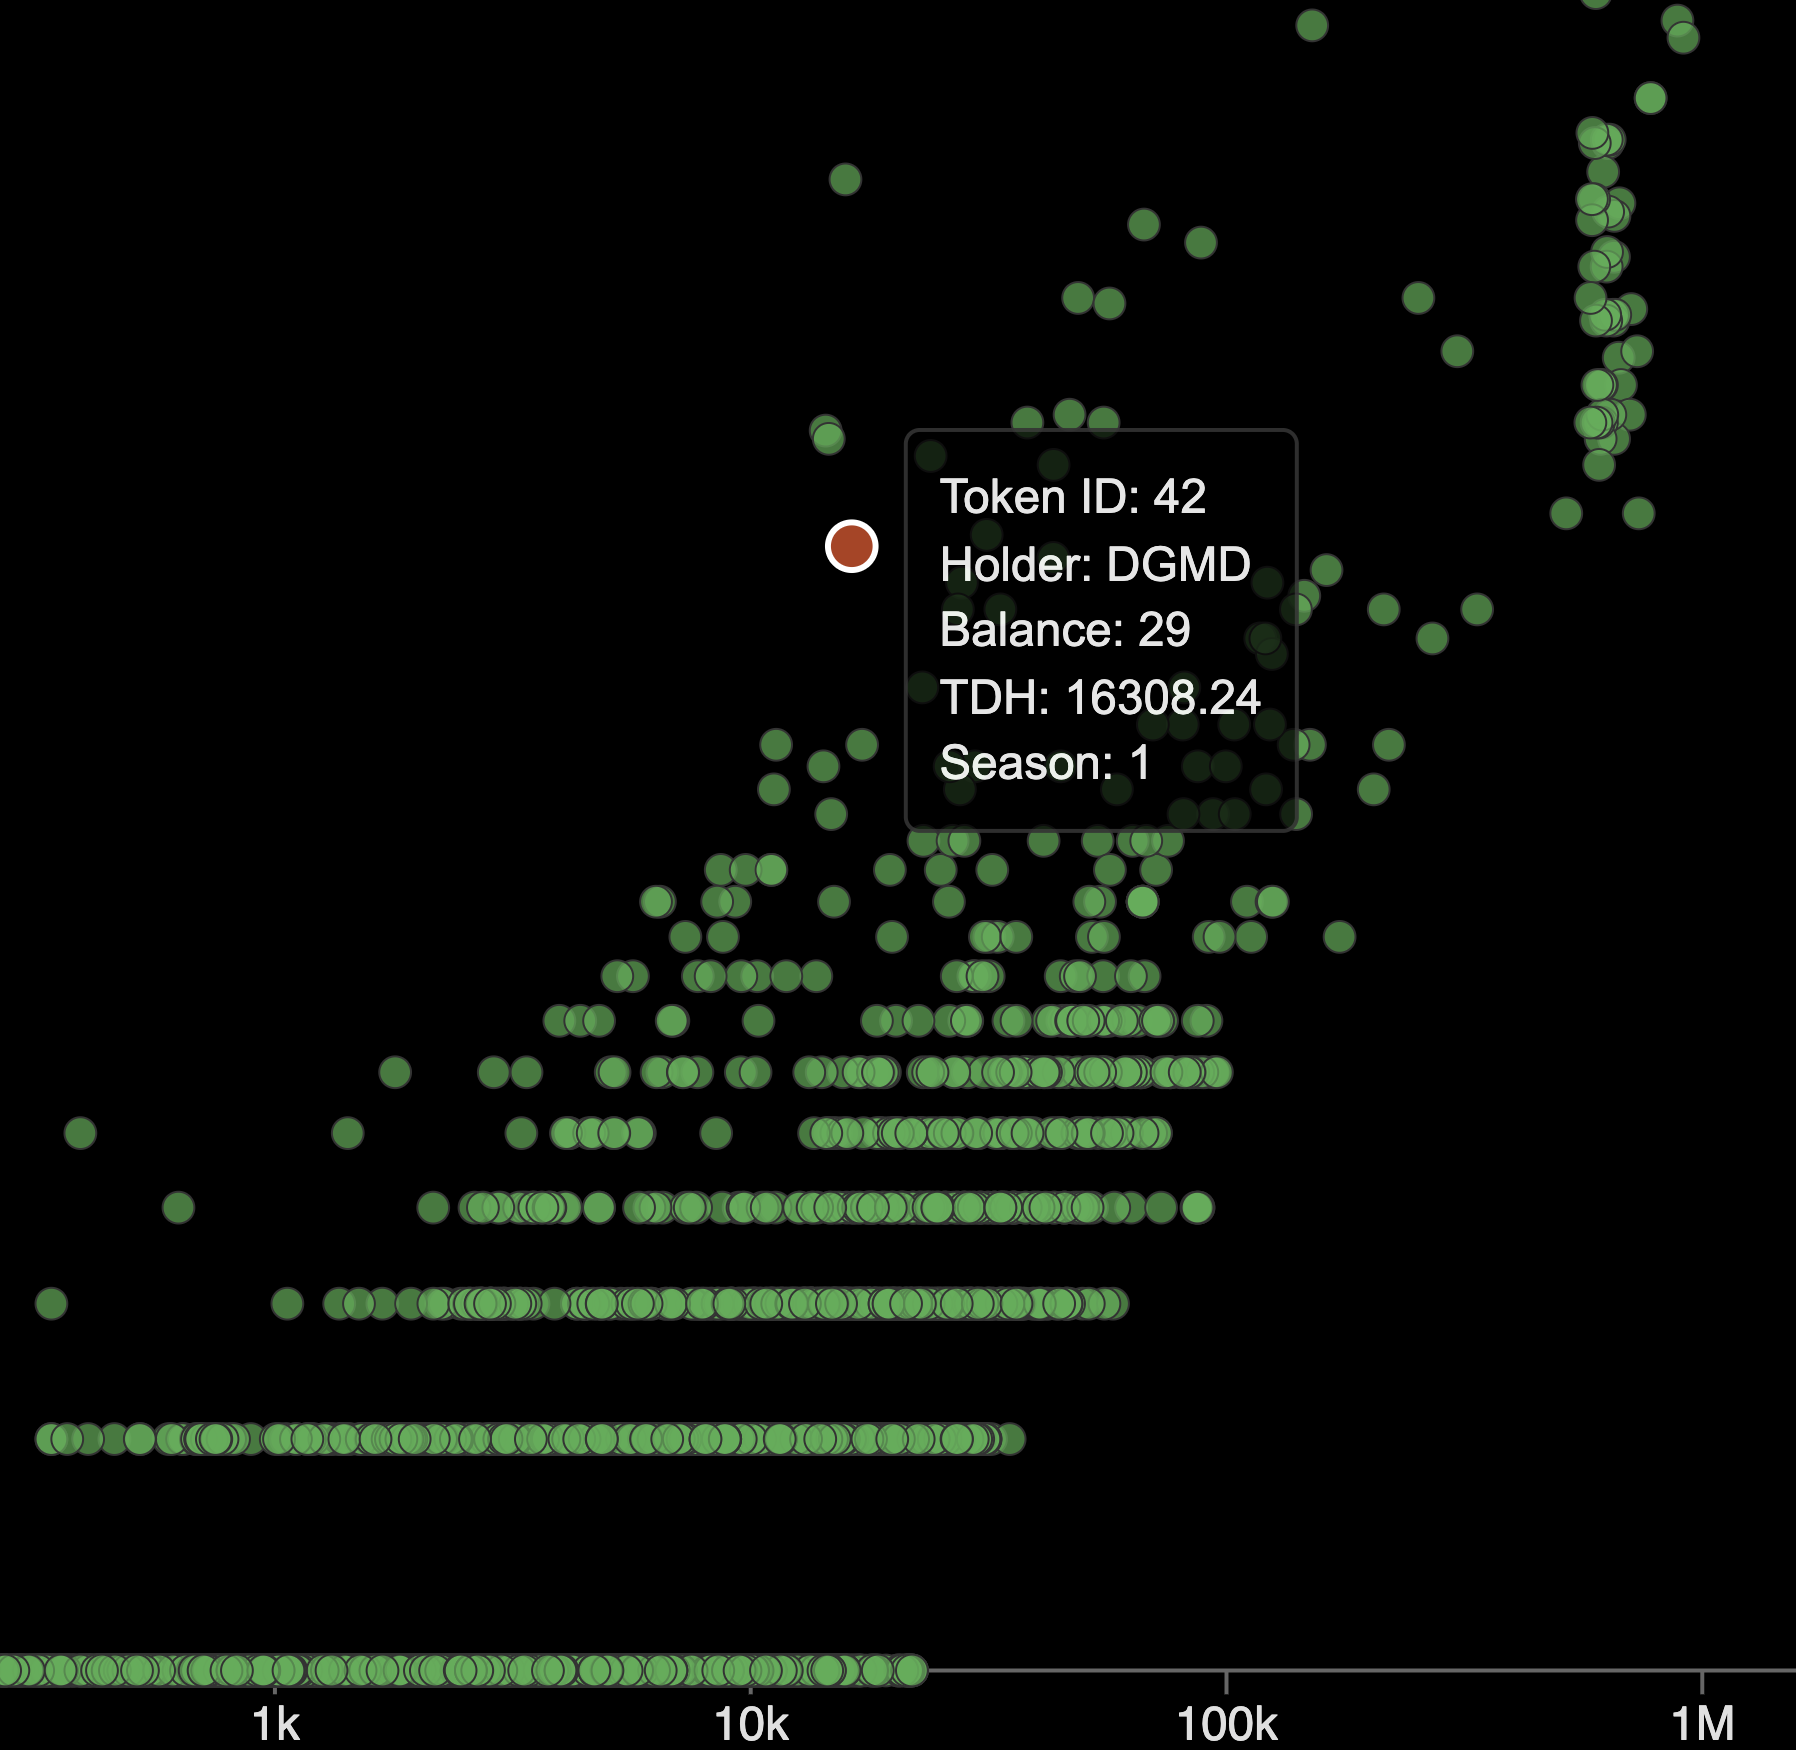
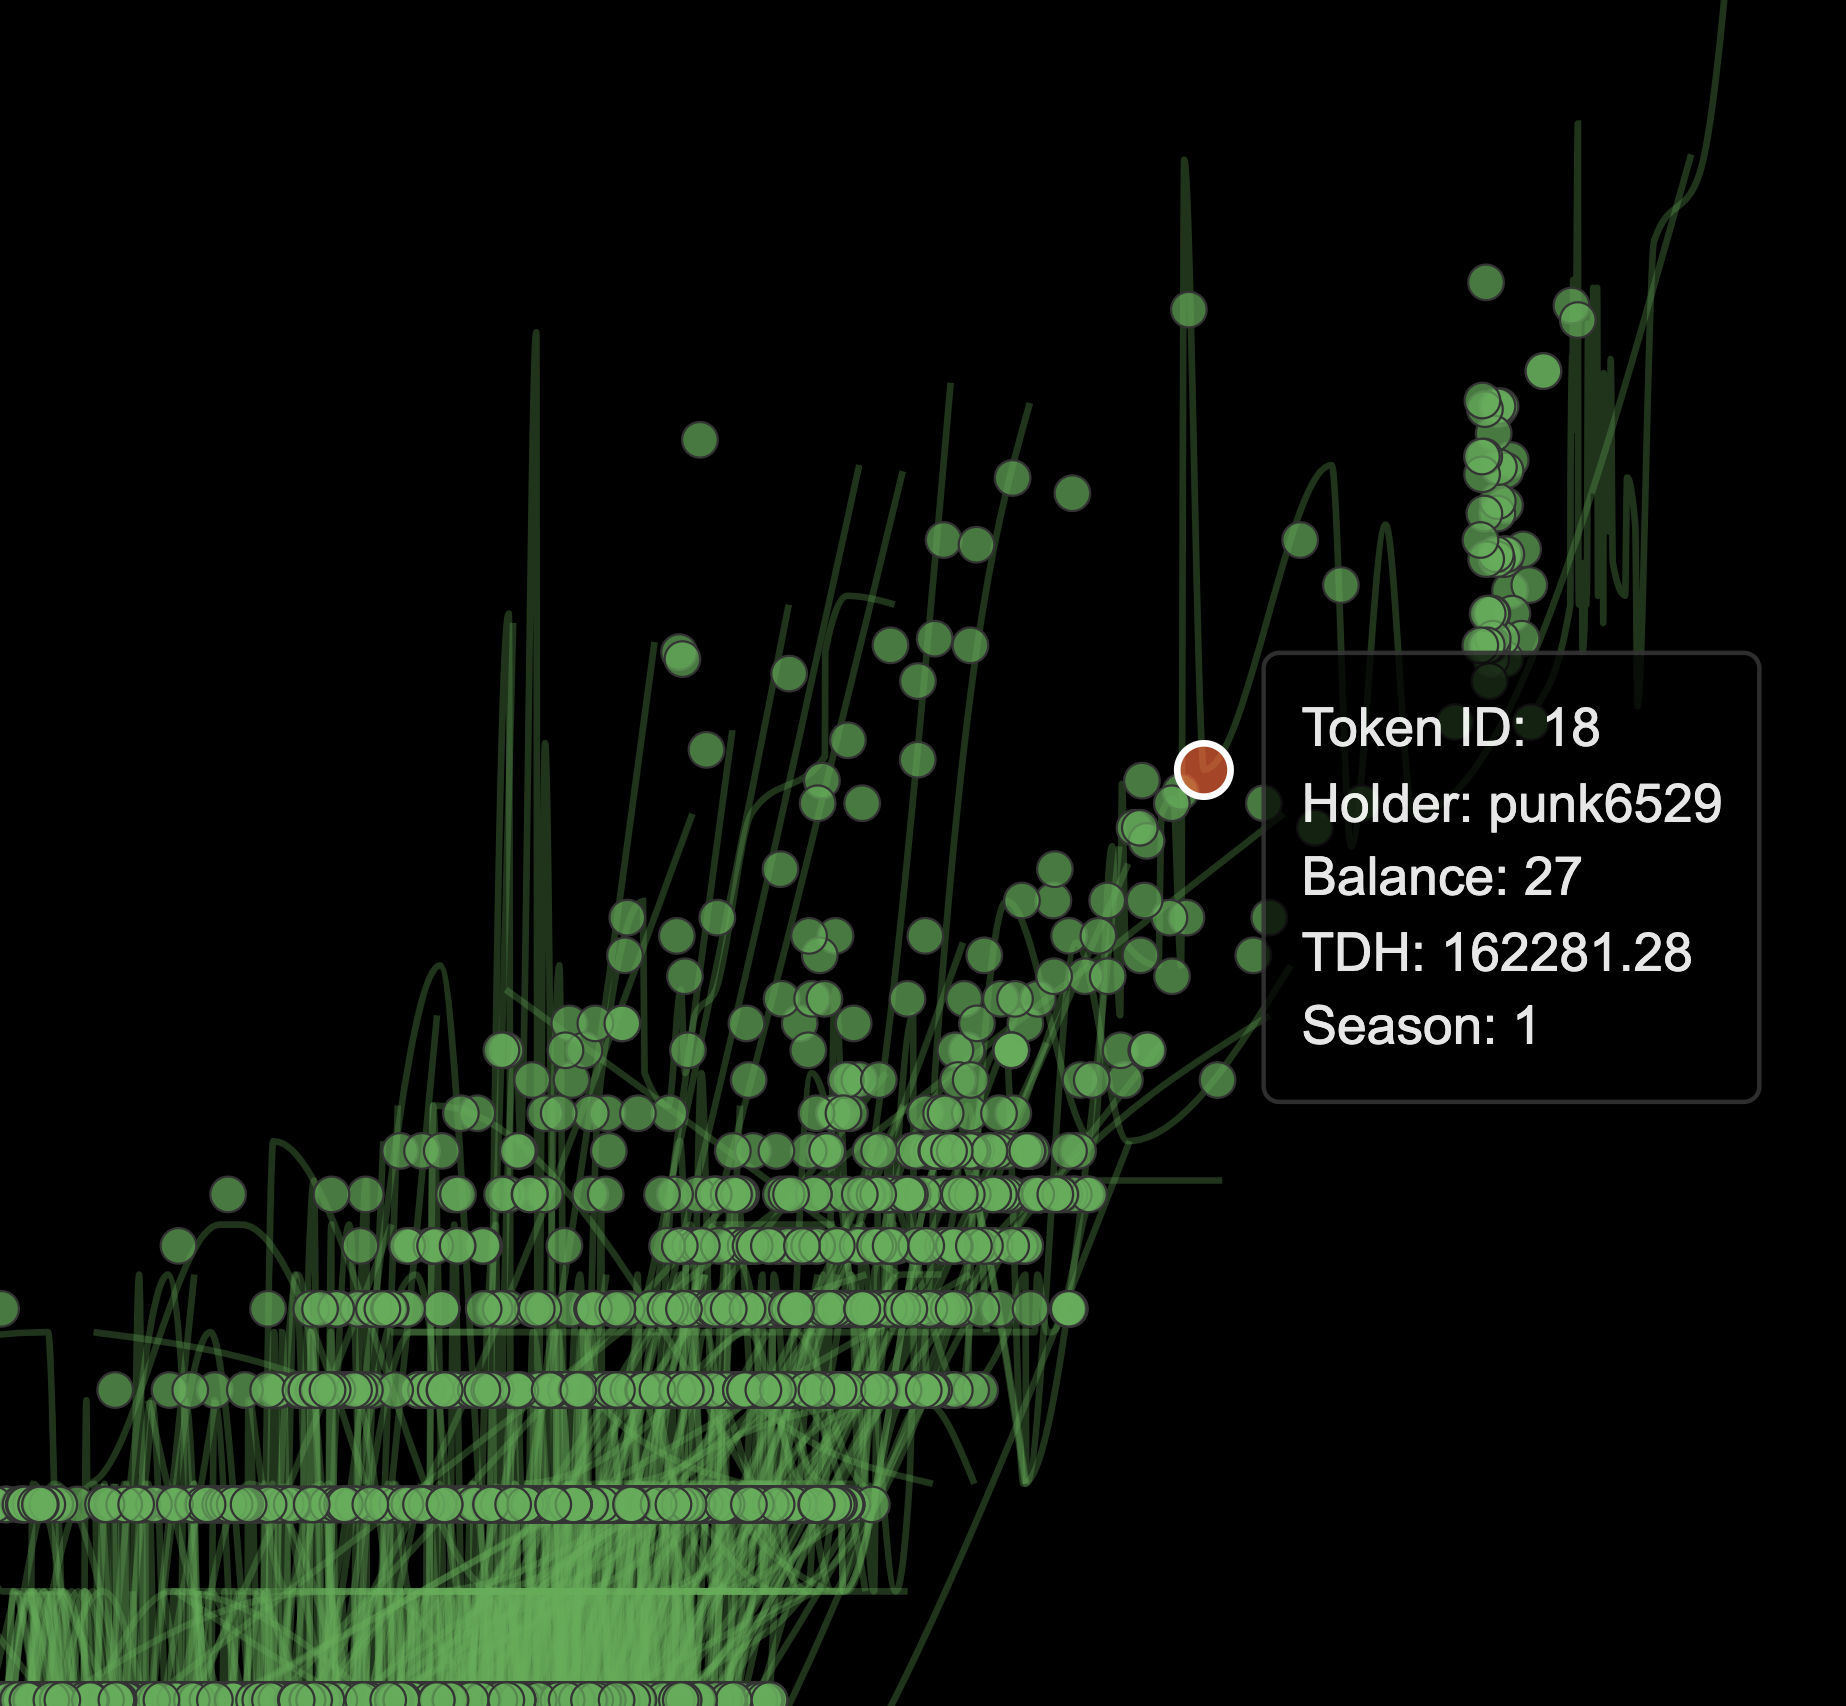
lines

diff --git a/6529-data/scatter.js b/6529-data/scatter.js
@@ -18,7 +18,7 @@ svg.append("text")
     .attr("class", "title")
     .attr("x", width / 2)
     .attr("y", -20)
-    .text("TDH vs Token Balance");
+    .text("TDH x Token Balance");
 
 // Create scales
 const x = d3.scaleLog()
@@ -108,12 +108,33 @@ function updateChart(season) {
         .duration(500)
         .call(yAxis);
 
-    // Update dots
+    // Group data by id
+    const groupedData = d3.group(filteredData, d => d.id);
+    
+    // Remove old lines and dots
+    svg.selectAll(".connector").remove();
     const dots = svg.selectAll(".dot")
         .data(filteredData, d => d.id);
-
-    // Remove old dots
     dots.exit().remove();
+    
+    // Add connecting lines for each group with more than one point
+    svg.selectAll(".connector")
+        .data([...groupedData.values()].filter(group => group.length > 1))
+        .enter()
+        .append("path")
+        .attr("class", "connector")
+        .attr("d", d => {
+            const sorted = [...d].sort((a, b) => +a.tdh - +b.tdh);
+            const line = d3.line()
+                .x(d => x(+d.tdh))
+                .y(d => y(+d.balance))
+                .curve(d3.curveMonotoneX);
+            return line(sorted);
+        })
+        .style("fill", "none")
+        .style("stroke", "#4CAF50")
+        .style("stroke-opacity", 0.3)
+        .style("stroke-width", 1.5);
 
     // Add new dots and update existing ones
     dots.enter()

diff --git a/6529-data/index.html b/6529-data/index.html
@@ -174,7 +174,7 @@
         <div class="container">
             <h1>6529 STUDIES</h1>
             <p class="subtitle">Advanced econosemantic studies of a memetic nexus.</p>
-            <p><a href="https://x.com/takenstheorem">Takens</a> made these tools with amazing data by <a href="https://x.com/Vantekai_">Vantekai</a> from <a href="https://6529.io">6529.io</a>. Last data snapshot: 6/27/2025</p>
+            <p><a href="https://x.com/takenstheorem">Takens</a> made these tools with amazing data by <a href="https://x.com/Vantekai_">Vantekai</a> based on <a href="https://6529.io">6529.io</a>. Last data snapshot: 6/27/2025</p>
         </div>
     </header>
     
@@ -202,7 +202,7 @@
                 <div class="screenshot-placeholder">
                     <img src="scatter.png" alt="Scatter Plot Preview">
                 </div>
-                <h2>TDH vs Balance</h2>
+                <h2>TDH x Balance</h2>
                 <div class="tool-name">Scatter Plot</div>
                 <p>Visualize relationship between TDH and balance holdings across tokens and seasons in a scatterplot.</p>
             </a>
